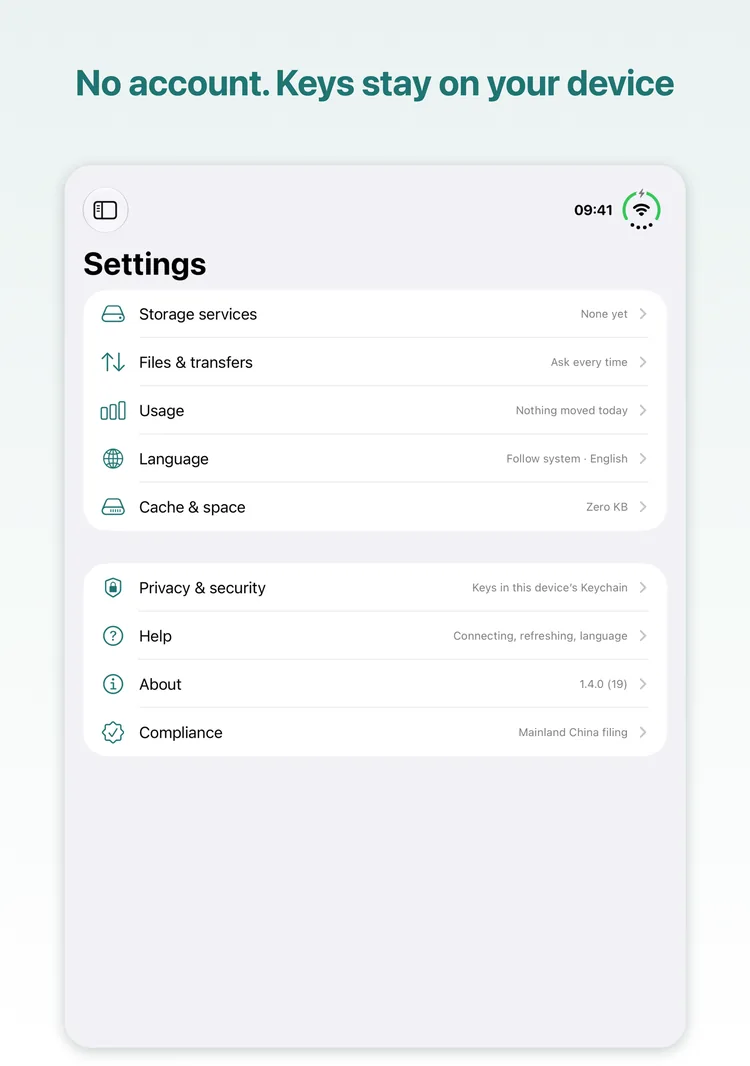
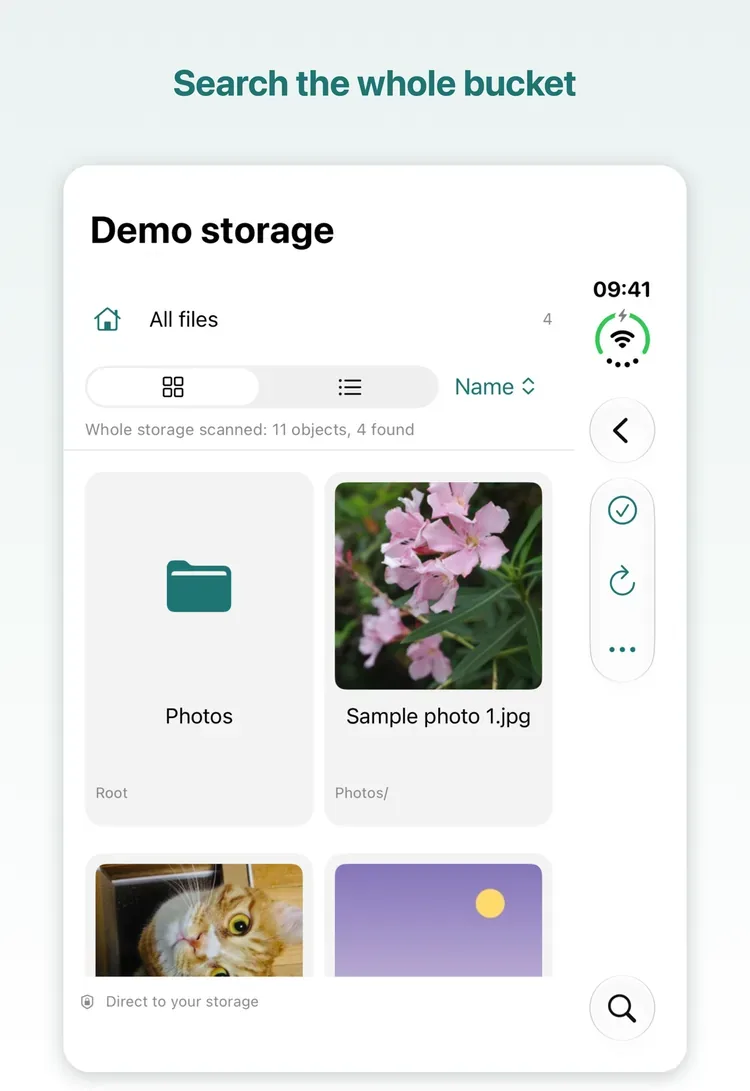
site: 英文 Duo 页签补上「全桶搜索」一帧（5 张，与繁體一致）
之前英文只排了 4 张：网格 / 添加存储 / 文件信息 / 设置。英文那套本来就有
搜索帧，补进来后与繁體同为 5 张。

diff --git a/en/index.html b/en/index.html
@@ -215,7 +215,8 @@
       <figure class="shot-phone"><img src="../assets/shots/en/duo-1.webp" width="750" height="1091" loading="lazy" alt="iPhone Duo cover screen: photo grid"></figure>
       <figure class="shot-phone"><img src="../assets/shots/en/duo-2.webp" width="750" height="1091" loading="lazy" alt="iPhone Duo cover screen: adding storage"></figure>
       <figure class="shot-phone"><img src="../assets/shots/en/duo-3.webp" width="750" height="1066" loading="lazy" alt="iPhone Duo inner screen: file info"></figure>
-      <figure class="shot-phone"><img src="../assets/shots/en/duo-4.webp" width="750" height="1066" loading="lazy" alt="iPhone Duo inner screen: settings"></figure>
+      <figure class="shot-phone"><img src="../assets/shots/en/duo-4.webp" width="750" height="1091" loading="lazy" alt="iPhone Duo cover screen: whole-bucket search"></figure>
+      <figure class="shot-phone"><img src="../assets/shots/en/duo-5.webp" width="750" height="1066" loading="lazy" alt="iPhone Duo inner screen: settings"></figure>
     </div>
 
     <div class="strip" id="strip-ipad" role="tabpanel" aria-labelledby="tab-ipad" hidden>
